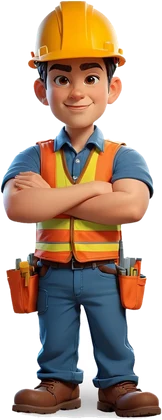
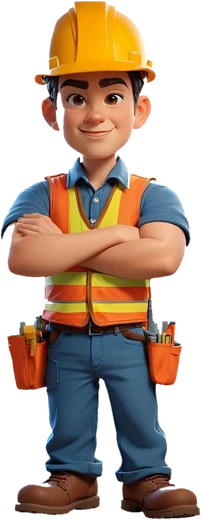
Tower: clean foreman cutout, jointed dance animation (legs/torso/head)
Claude-Session: https://claude.ai/code/session_01J4gsZhQquDn72iRTSkVHAh

diff --git a/webapp/fx-tower.js b/webapp/fx-tower.js
@@ -361,9 +361,20 @@
       g.restore();
       const im = TowerFx.worker;
       if (im && im.width) {
-        const hgt = 1.8 * u, wid = hgt * im.width / im.height, bob = Math.abs(Math.sin(ph * Math.PI)) * 0.09 * u;
-        g.save(); g.translate(this.X(-1.45), gy + 0.12 * u); g.fillStyle = 'rgba(0,0,0,.28)'; g.beginPath(); g.ellipse(0, 0, wid * 0.5, 4.5, 0, 0, 6.283); g.fill();
-        g.translate(Math.sin(t * 3.14) * 0.03 * u, -bob); g.rotate(Math.sin(t * 6.283) * 0.07); g.scale(1 + 0.025 * pulse, 1 - 0.03 * pulse); g.drawImage(im, -wid / 2, -hgt, wid, hgt); g.restore();
+        // the foreman is a jointed puppet cut from one picture: legs, torso (arms crossed) and head move on their own pivots
+        const hgt = 1.8 * u, iw = im.width, ih = im.height, sc = hgt / ih, wid = iw * sc, b = t * 12.566, w1 = Math.sin(b / 2), w2 = Math.sin(b / 2 + 3.1416);
+        const cut = 0.62 * ih, neck = 0.295 * ih, split = 0.52 * iw, hip = (Math.abs(w1)) * 0.045 * hgt;
+        g.save(); g.translate(this.X(-1.45), gy + 0.12 * u); g.fillStyle = 'rgba(0,0,0,.28)'; g.beginPath(); g.ellipse(0, 0, wid * 0.5 * (1 - Math.abs(w1) * 0.06), 4.5, 0, 0, 6.283); g.fill();
+        const piece = (sx, sy, sw, sh, px, py, rot, dx, dy) => { g.save(); g.translate((px - iw / 2) * sc + dx, (py - ih) * sc + dy); g.rotate(rot); g.drawImage(im, sx, sy, sw, sh, (sx - px) * sc, (sy - py) * sc, sw * sc, sh * sc); g.restore(); };
+        const legTop = cut - 0.05 * ih, shiftX = w1 * 0.03 * wid;
+        piece(0, legTop, split + 2, ih - legTop, 0.42 * iw, cut, 0.075 * w1, shiftX * 0.5, -Math.max(0, w1) * 0.035 * hgt);          // left leg
+        piece(split - 2, legTop, iw - split + 2, ih - legTop, 0.6 * iw, cut, 0.075 * w2, shiftX * 0.5, -Math.max(0, w2) * 0.035 * hgt);   // right leg, opposite step
+        const tr = 0.055 * Math.sin(b / 2 + 0.6), tdx = shiftX + w1 * 0.01 * wid, tdy = -hip - pulse * 0.012 * hgt;
+        piece(0, neck - 0.05 * ih, iw, cut + 0.012 * ih - (neck - 0.05 * ih), 0.5 * iw, cut, tr, tdx, tdy);                                // torso
+        const hr = 0.05 * Math.sin(b) + 0.05 * Math.sin(b / 2 + 1.2);
+        const hy = (cut - ih) * sc; g.save(); g.translate(tdx, hy + tdy); g.rotate(tr); g.translate(0, -hy);                                  // head rides on the torso
+        piece(0, 0, iw, neck + 0.015 * ih, 0.5 * iw, neck, hr, 0, 0);
+        g.restore(); g.restore();
       }
     }
     propsFront(g, gy) {                             // in front of the slab: bricks on a pallet, traffic cones
